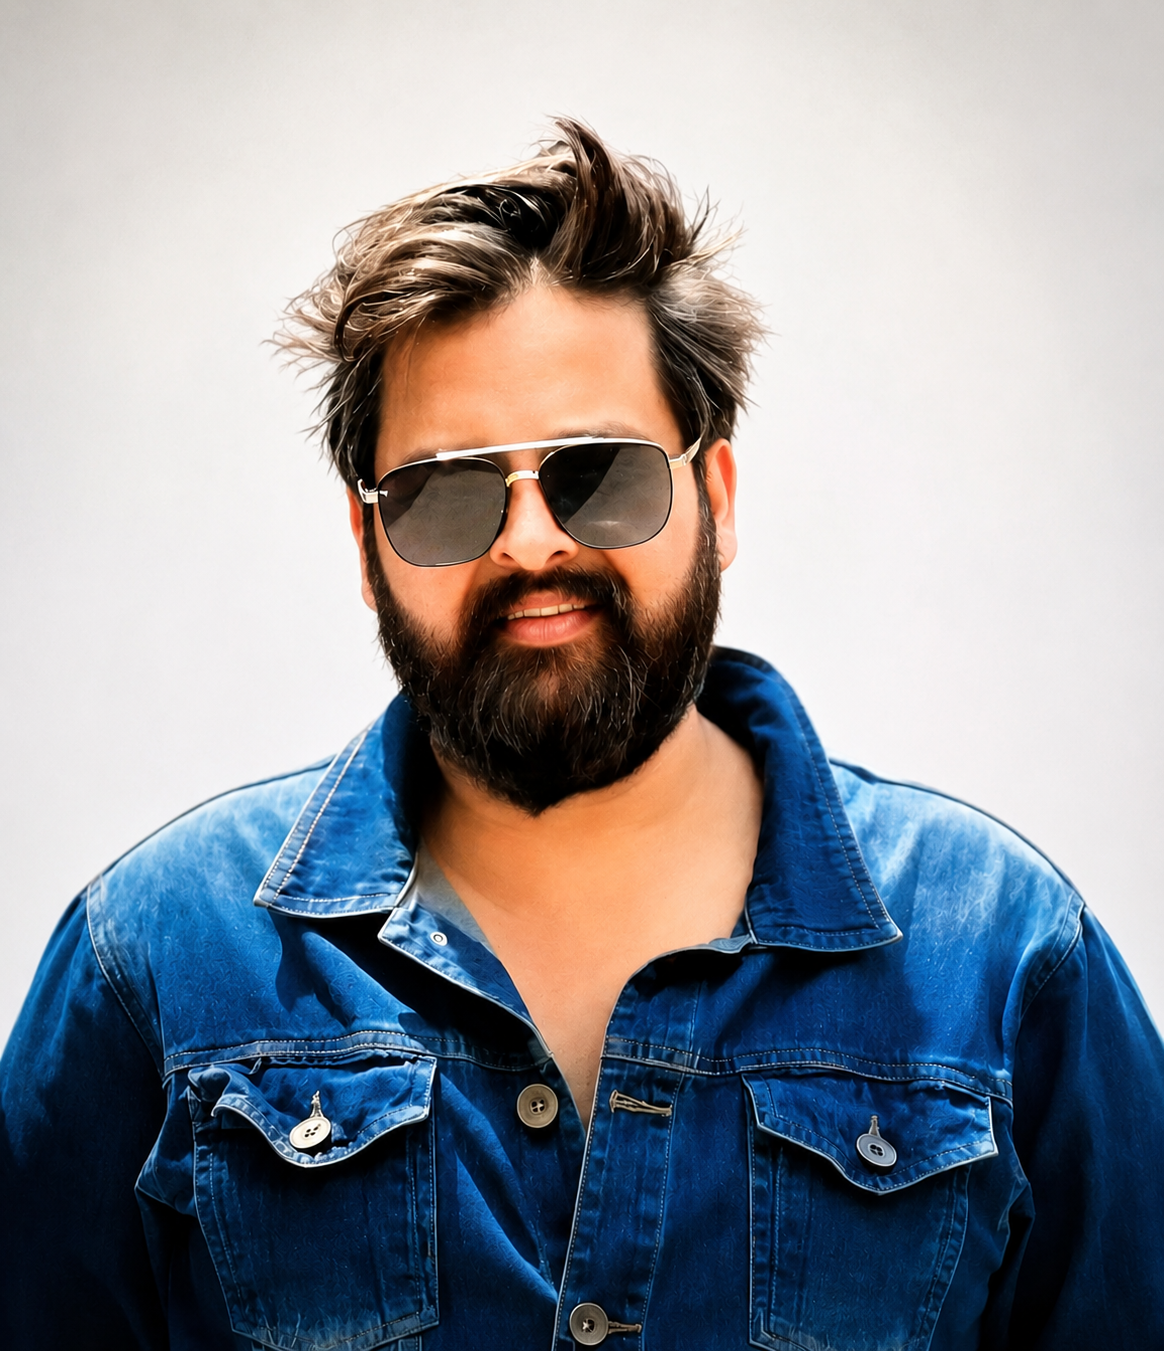
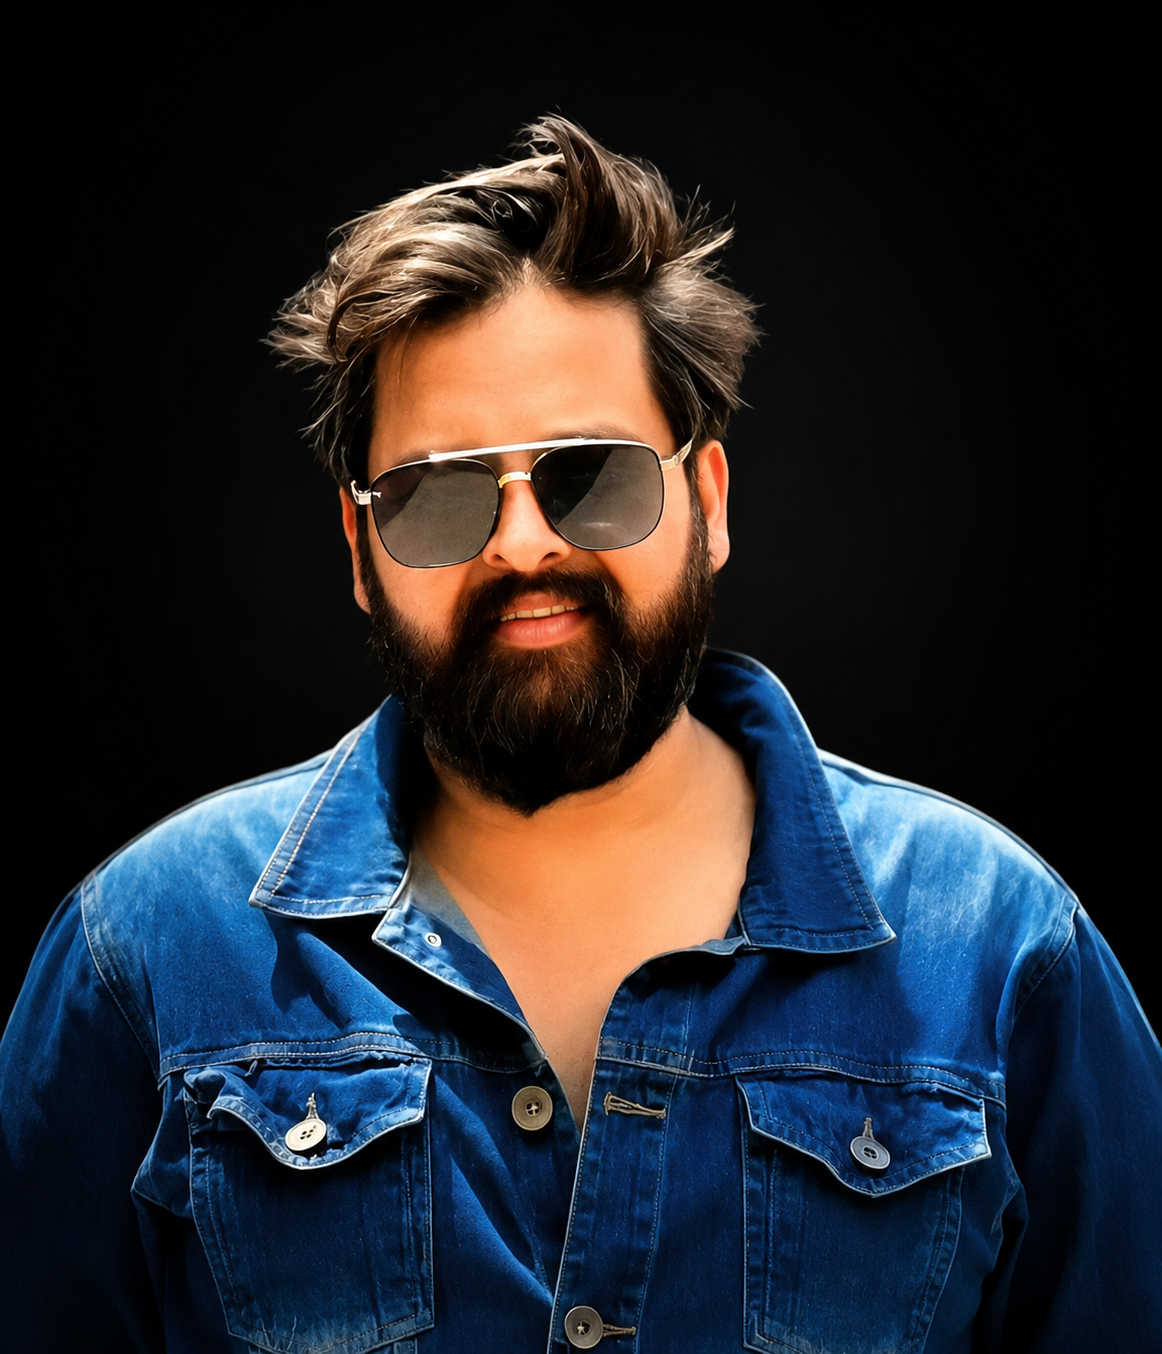
ok

diff --git a/pages/AboutGoG.tsx b/pages/AboutGoG.tsx
@@ -10,6 +10,7 @@ import FounderImg from '../assets/images/founder.png';
 import F1Img from '../assets/images/f1.png';
 import F2Img from '../assets/images/f2.png';
 import COOImg from '../COO.png';
+import CTOImg from '../CTO.png';
 import S1Img from '../assets/team/1st.jpg';
 import S2Img from '../assets/team/2nd.jpg';
 import S3Img from '../assets/team/3rd.jpg';
@@ -58,7 +59,7 @@ const AboutGoG: React.FC = () => {
         },
            
         {
-            image: F2Img,
+            image: CTOImg,
             name: "Mr. Ajay Katana",
             role: "Chief Technology Officer",
             quote: " In Today's Rapidly Evolving Technological Landscape, It's Crucial To Stay Appropriately Skilled And Up-To-Date With Dynamic Market Trends. At Geeks Of Gurukul, We Pride GoG On Teaching Students The Latest, Most In-Demand Technologies, So That You Are Well-Prepared For Your Dream Job.",
